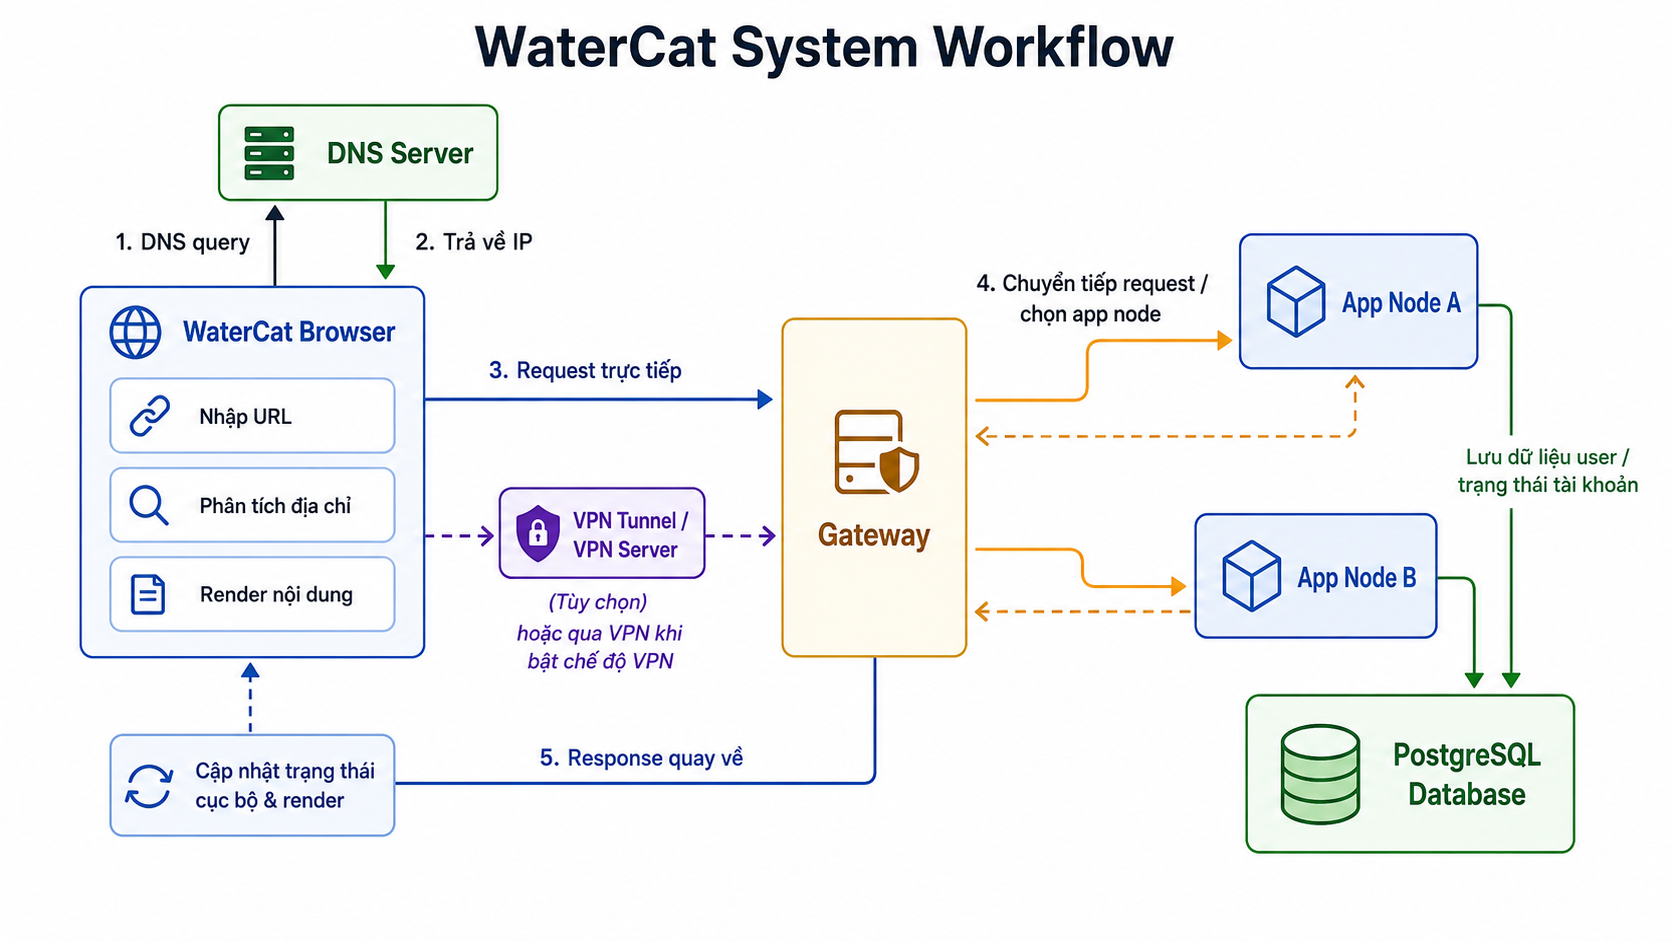
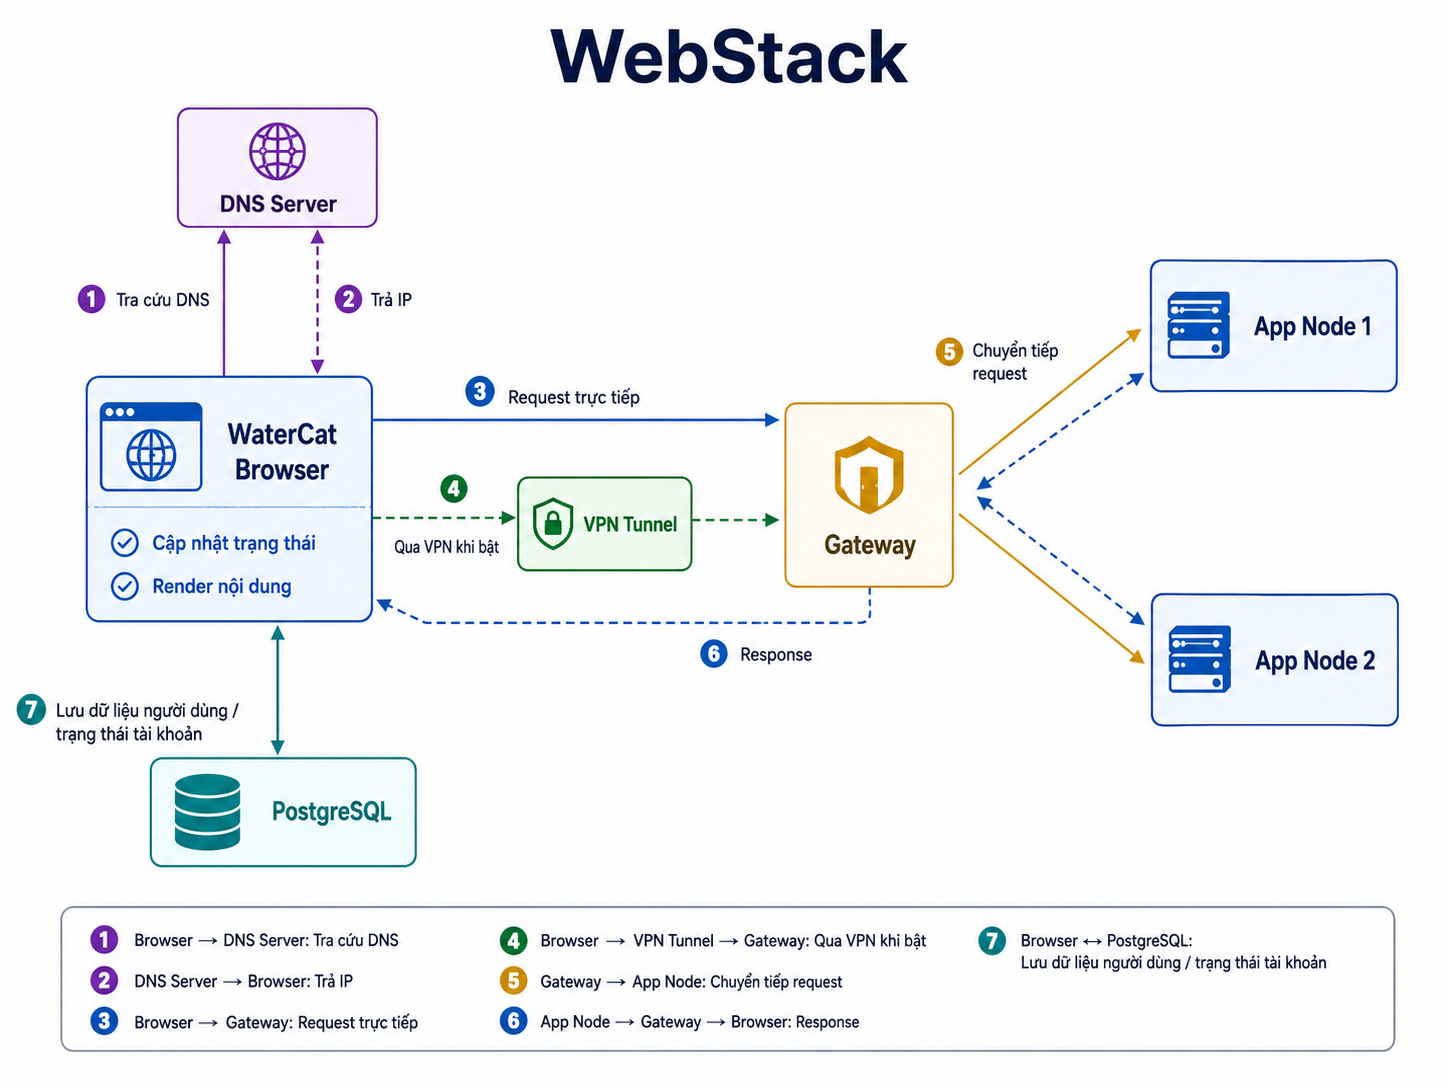
update README 2

diff --git a/README.md b/README.md
@@ -1,4 +1,4 @@
-# WaterCat Mini Web Stack
+# Web Stack
 
 ![alt text](image.png)
 
